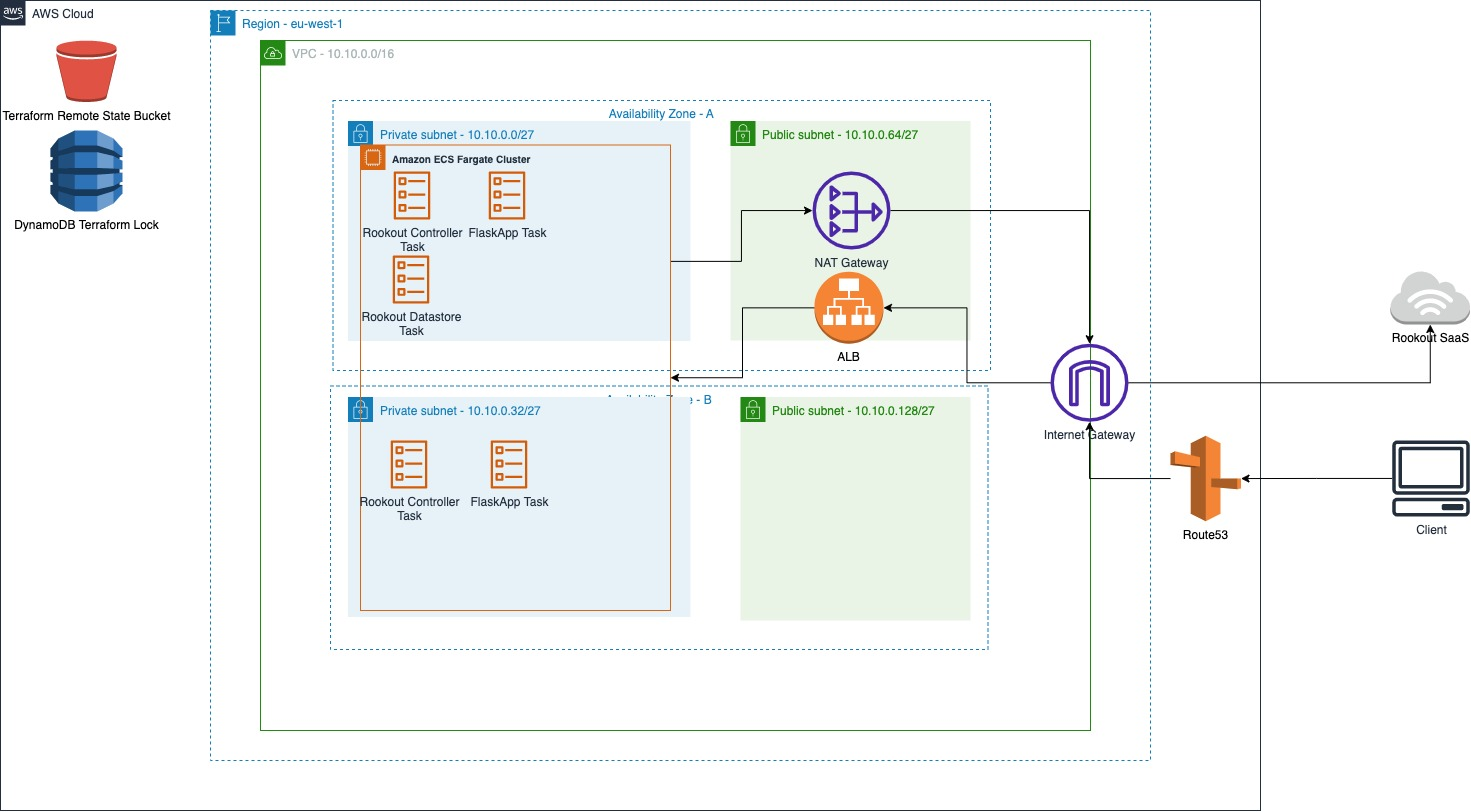
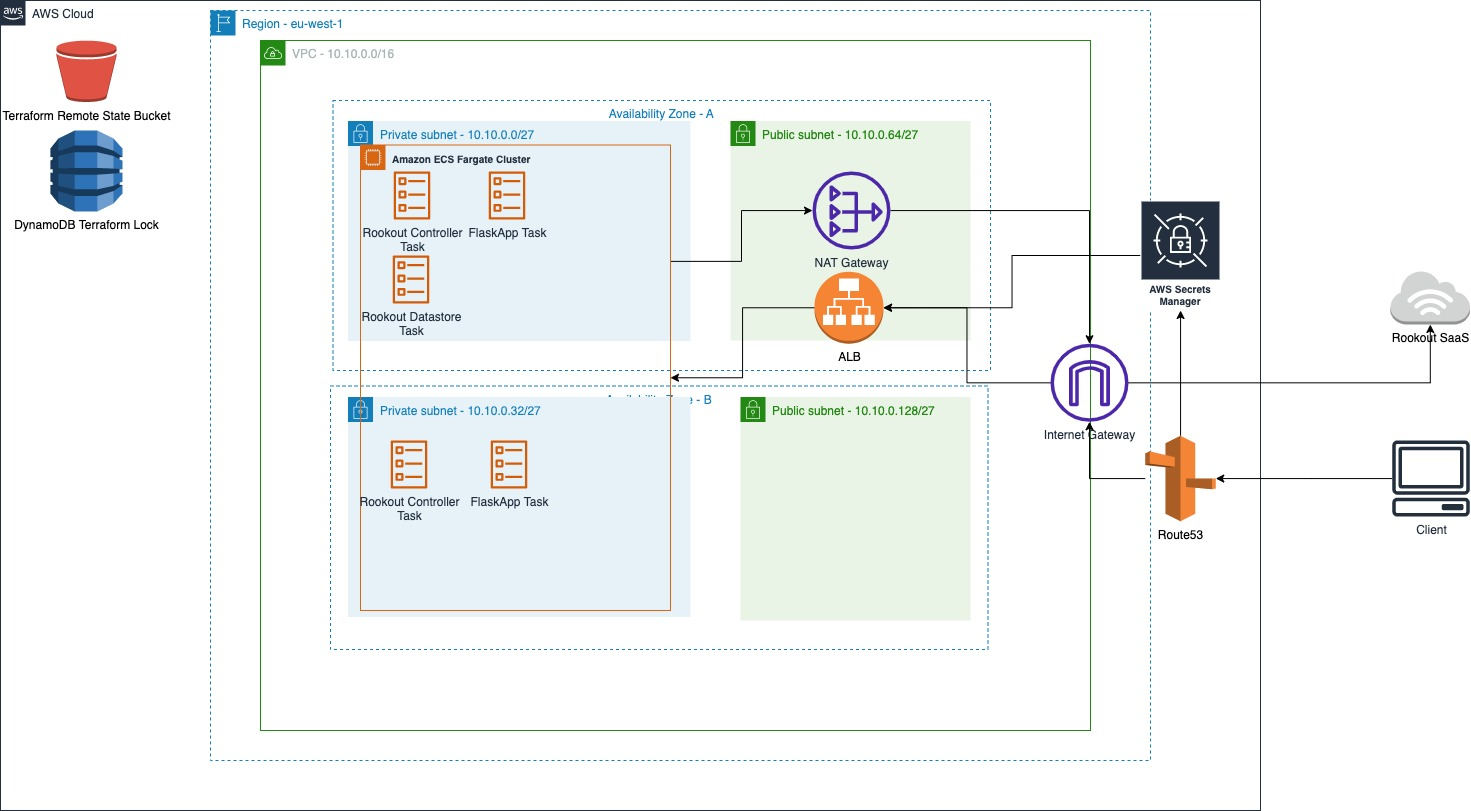
update

diff --git a/README.md b/README.md
@@ -13,7 +13,7 @@ The module implements the following architecture:
 3. [Optional] - remote state bucket and dyanmoDB lock. can be created with attached tf-bucked module.
 4. Create a secret in the secrets manager with your Rookout token using one of the following options:
     * AWS CLI - Change the <rookout_token> placeholder with your token and run:
-       * `aws secretsmanager create-secret --name rookout-token --description "Rookout token" --secret-string "<rookout_token>"`
+       * `aws secretsmanager create-secret --name rookout-token --description "Rookout token" --secret-string "{\"rookout-token\":\"<rookout_token>\"}"`
     * AWS Console - follow this [tutorial](https://docs.aws.amazon.com/secretsmanager/latest/userguide/tutorials_basic.html)
     * If secret stored with other name name, please configure `rookout_token_arn` variable insted. 
 
